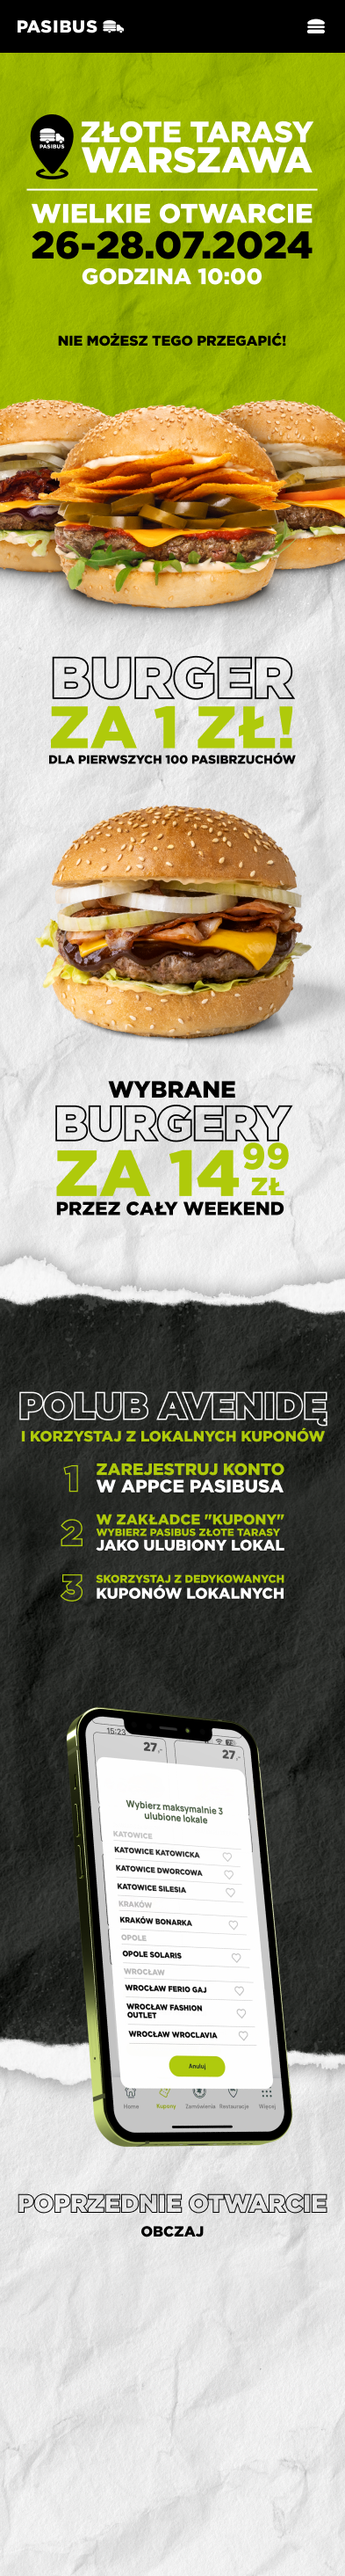
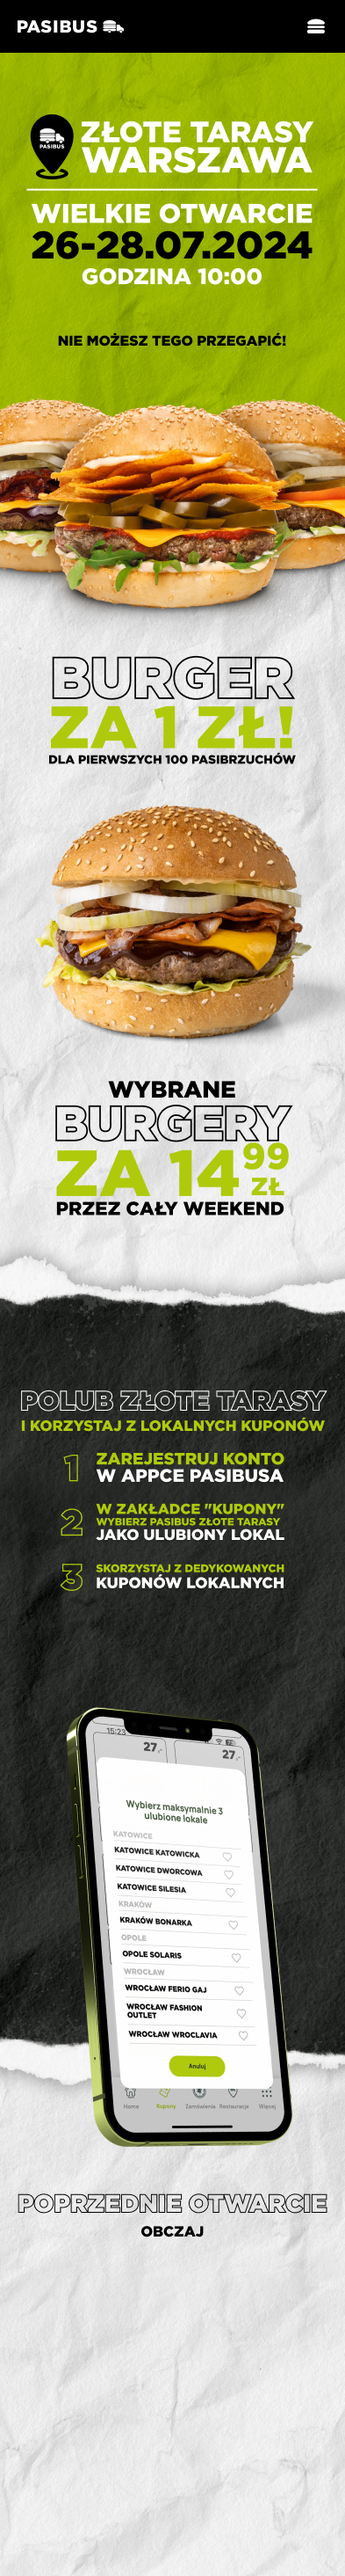
korekta treści

Changed region(s): [[0.0611, 0.5282, 0.9466, 0.6214]]

diff --git a/index.html b/index.html
@@ -5,7 +5,7 @@
     <meta charset="UTF-8">
     <meta name="viewport" content="width=device-width, initial-scale=1.0">
 
-    <title>Pasibus Avenida Poznań</title>
+    <title>Pasibus Zote Tarasy Warszawa</title>
     <script src="https://cdn.tailwindcss.com"></script>
 
     <link rel="preconnect" href="https://fonts.googleapis.com">
@@ -82,7 +82,7 @@
             <!-- <img class="block md:hidden w-full" src="images/frame_1_mobile.png" alt=""> -->
             <img class="block md:hidden w-full" src="images/frame_1_2_zlote_mobile.png" alt="">
             <!-- regulamin -->
-            <div class="hidden md:block absolute left-0 bottom-0 right-0 w-2/3 h-1/2 mx-auto xbg-red-500 pt-6">
+            <!-- <div class="hidden md:block absolute left-0 bottom-0 right-0 w-2/3 h-1/2 mx-auto xbg-red-500 pt-6">
                 <div class="flex gap-8 xl:gap-10 2xl:gap-12 justify-start mt-20 xl:mt-48">
                     <a href="https://pasibus.pl/pl/regulaminy/"
                         class="flex gap-2 montserrat-bold items-center uppercase text-sm lg:text-lg xxl:text-lg 2xl:text-xl">
@@ -99,7 +99,7 @@
                         <img class="h-5 lg:h-6" src="icons/arrow_icon.svg" alt="">
                     </a>
                 </div>
-            </div>
+            </div> -->
             <!-- end regulamin -->
 
             <!-- app -->
